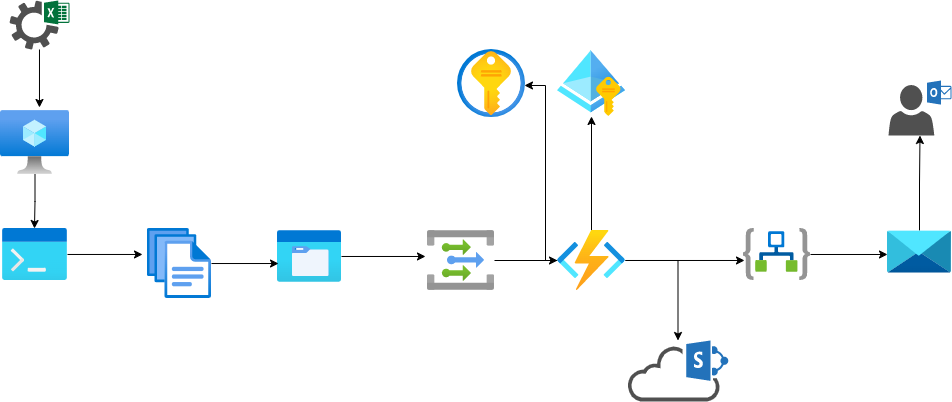
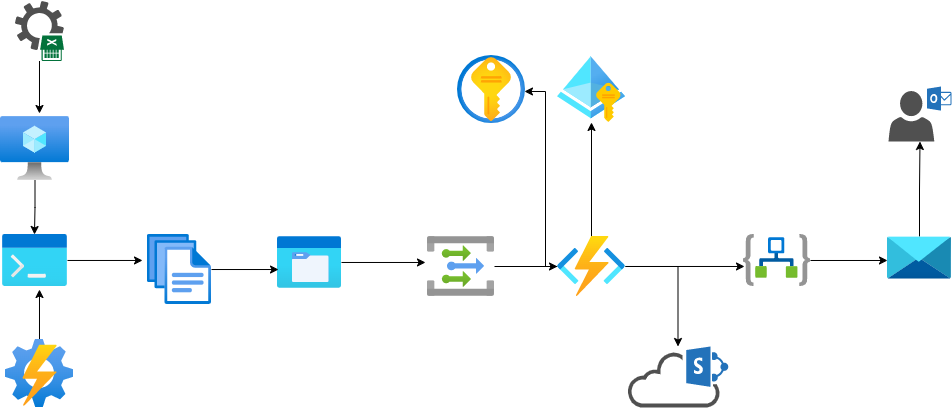
Commit

diff --git a/README.md b/README.md
@@ -17,7 +17,7 @@ Included in this report is a step by step detailed guide around where to look fo
 ### 3.1	Logical System Component Overview
 ![Figure 1: Logical Architecture Overview](./.images/workflow.png)
 1. The file gets dumped from the application.
-1. Scheduler runs the script to copy files from on-prem to Azure Blob.
+1. Azure Automation account runs AzCopy script every hour to transfer the file from on-prem to Azure Blob via Hybrid Runbook Workers.
 1. This invokes a function via eventgrid. 
 1. The function will auth via managed identity against Azure AD and retrieves API credentials from Azure Keyvault that is secured under T0 subscription.
 1. SPN has permission on the BAS sharepoint site to upload a file.
@@ -29,6 +29,3 @@ This project is used by the following teams:
 
 - BAS
 - Cloud Platform
-
-
-
